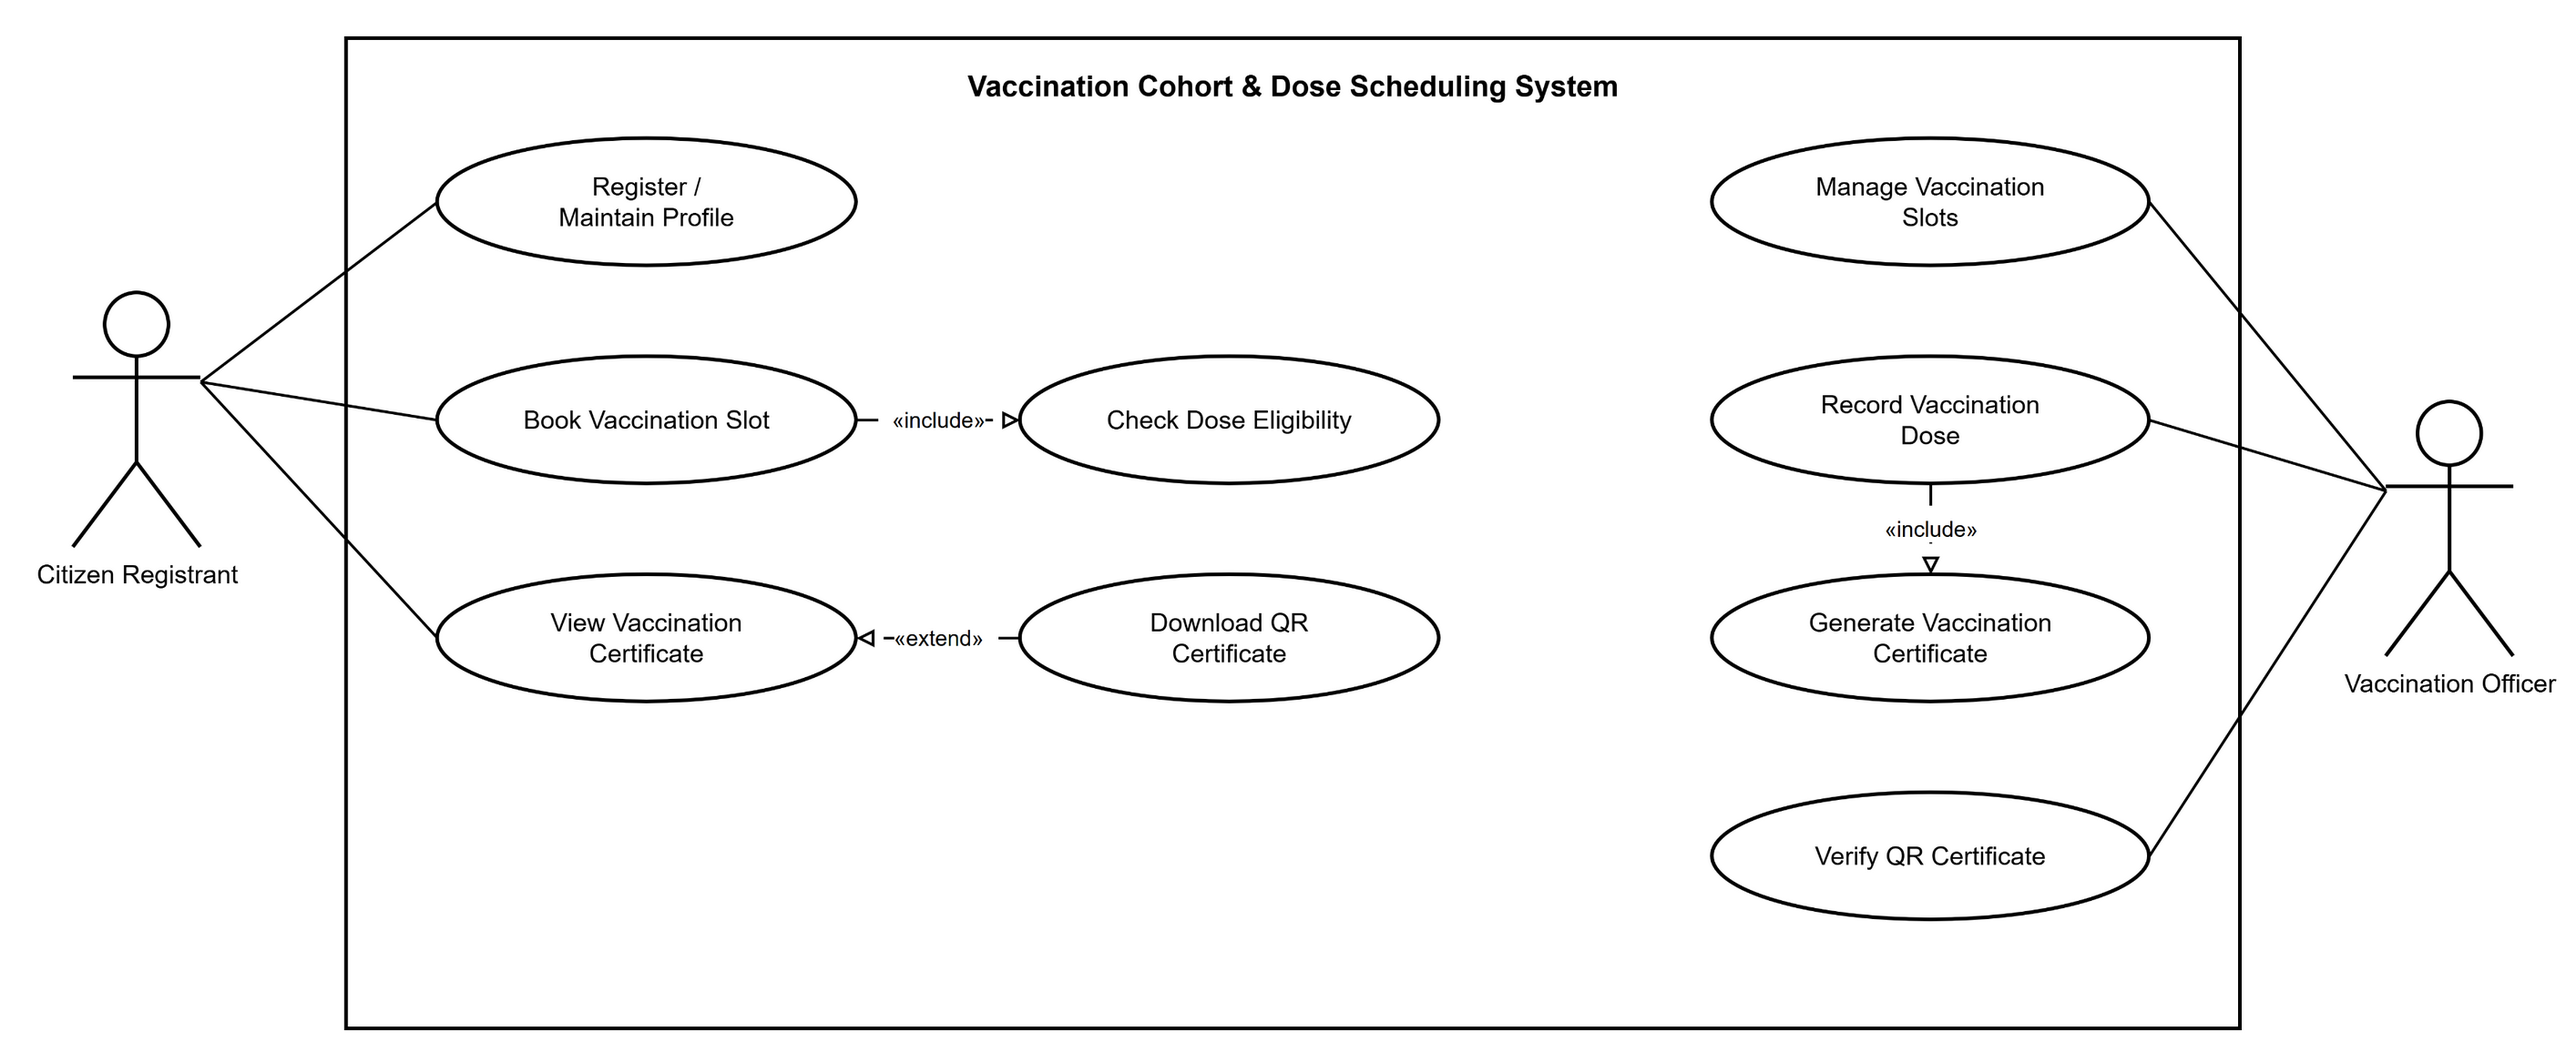
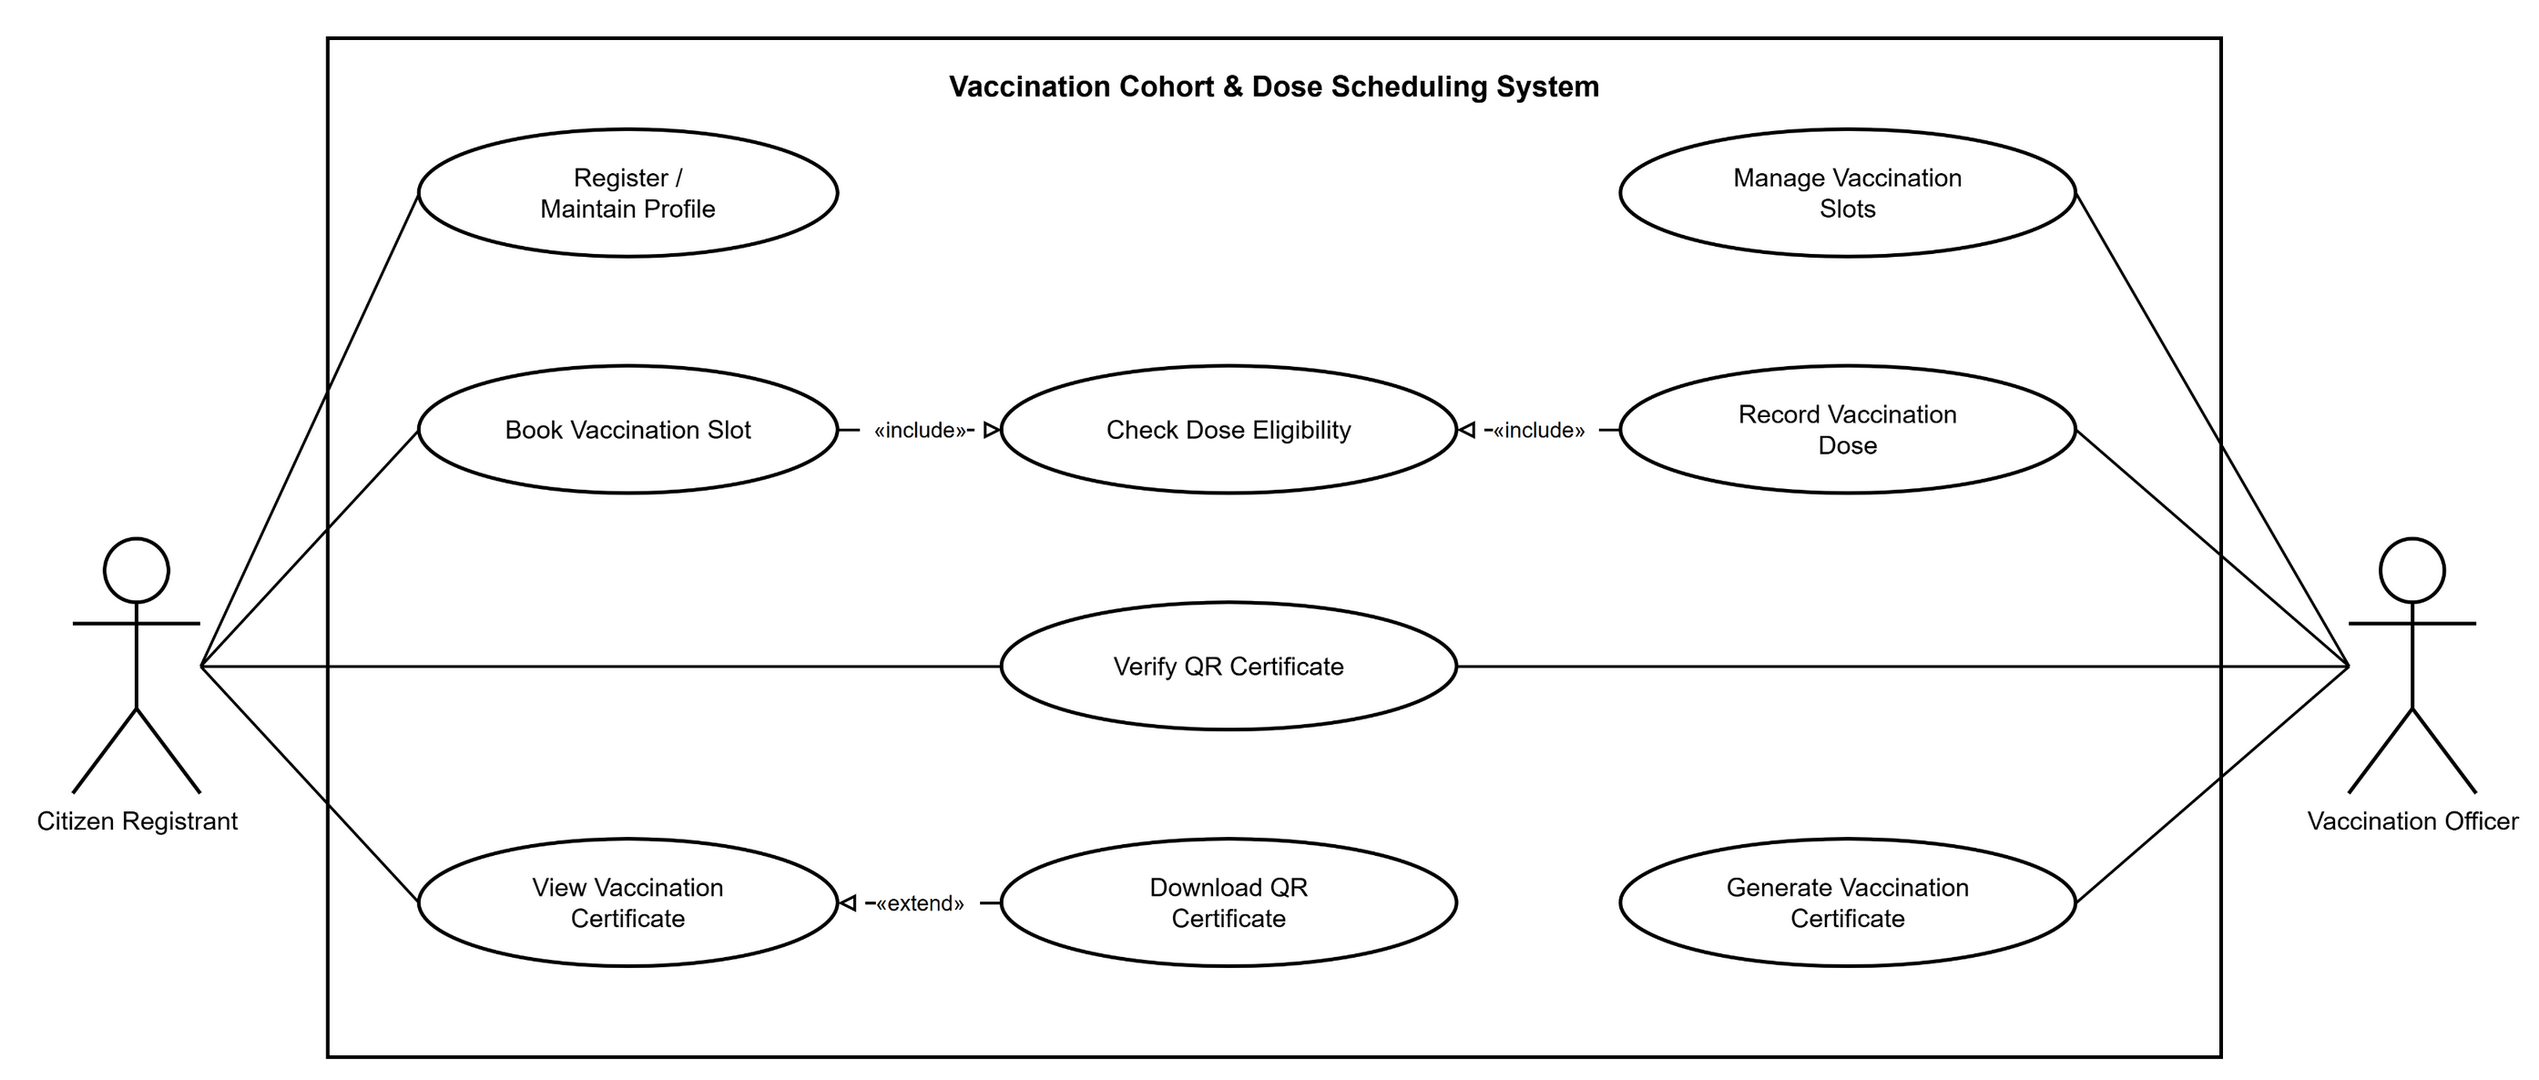
uml: connect the two actors' use cases into one model
The previous diagram split into two disconnected halves: no path
existed between any Citizen Registrant use case and any Vaccination
Officer use case, so it read as two diagrams sharing a boundary.

Join them with the two relationships the domain already implies:

- Check Dose Eligibility is now <<include>>d by both Book Vaccination
  Slot and Record Vaccination Dose. The interval rule must hold when
  an appointment is reserved and again before the dose is
  administered, since an earlier dose may be back-dated or corrected
  in between. Factoring shared behaviour out of two use cases is what
  <<include>> is for.
- Verify QR Certificate is now associated with both actors: a citizen
  verifies their own certificate, an officer verifies one presented
  at a checkpoint.

Generate Vaccination Certificate becomes a plain officer association,
which keeps the officer column free of a crossing edge. Update the
requirements traceability, rationale for FR-003, README and UC-01
notes to match, and re-export the PNG.

diff --git a/requirements/requirements.md b/requirements/requirements.md
@@ -98,8 +98,8 @@ crowding at vaccination sites and lets officers plan vaccine stock per session.
 |---|---|
 | **Type** | Functional — Business Rule |
 | **Priority** | High |
-| **Actor** | Citizen Registrant (enforced by the system) |
-| **Use case** | Check Dose Eligibility — `«include»` of Book Vaccination Slot |
+| **Actors** | Citizen Registrant, Vaccination Officer (enforced by the system for both) |
+| **Use case** | Check Dose Eligibility — `«include»` of Book Vaccination Slot *and* of Record Vaccination Dose |
 
 **Description.** The system shall enforce dose interval rules (e.g. minimum 28 days after Dose 1)
 before unlocking Dose 2 booking for a citizen. The interval shall be configurable per vaccine
@@ -112,8 +112,11 @@ type rather than hard-coded.
 - **Fail:** an early vaccination slot is confirmed.
 
 **Rationale.** A second dose given too early is clinically ineffective and potentially unsafe.
-Because the rule is safety-critical, it is enforced centrally on every booking attempt — modelled
-as a mandatory `«include»` rather than an optional check — so it cannot be bypassed.
+Because the rule is safety-critical, it is enforced centrally rather than left to staff
+discretion, and it is checked at **both** points where an invalid dose could slip through: when
+the citizen reserves an appointment, and again when the officer records the dose as administered.
+Modelling it as a shared mandatory `«include»` from both use cases — rather than an optional
+check on one — is what makes it impossible to bypass from either direction.
 
 ---
 
@@ -250,26 +253,41 @@ diagram is labelled with the requirement it satisfies.
 |---|---|---|---|---|
 | 1 | FR-001 | Register / Maintain Profile | Citizen Registrant | association |
 | 2 | FR-002 | Book Vaccination Slot | Citizen Registrant | association |
-| 3 | FR-003 | Check Dose Eligibility | — | **`«include»`** from Book Vaccination Slot |
+| 3 | FR-003 | Check Dose Eligibility | — | **`«include»`** from Book Vaccination Slot **and** from Record Vaccination Dose |
 | 4 | FR-005 | View Vaccination Certificate | Citizen Registrant | association |
 | 5 | FR-005 | Download QR Certificate | — | **`«extend»`** onto View Vaccination Certificate |
 | 6 | FR-002 | Manage Vaccination Slots | Vaccination Officer | association |
 | 7 | FR-004 | Record Vaccination Dose | Vaccination Officer | association |
-| 8 | FR-005 | Generate Vaccination Certificate | — | **`«include»`** from Record Vaccination Dose |
-| 9 | FR-005, NFR-001 | Verify QR Certificate | Vaccination Officer | association |
+| 8 | FR-005 | Generate Vaccination Certificate | Vaccination Officer | association |
+| 9 | FR-005, NFR-001 | Verify QR Certificate | **both actors** | association to Citizen Registrant **and** Vaccination Officer |
 | — | NFR-002 | *(cross-cutting)* | both | applies to all record-handling use cases |
 
-All nine use cases in the diagram appear in this table, and every one is connected — each has at
-least one association to an actor or one `«include»`/`«extend»` relationship to another use case.
-There are no floating use cases.
+---
+
+### 5.1 How the two actors' use cases are connected
+
+The model is a **single connected graph** — not two independent halves that happen to share a
+system boundary. Starting from either actor, every use case is reachable. Two relationships do
+that work:
+
+**Shared included use case — `Check Dose Eligibility`.**
+It is `«include»`d from the citizen's `Book Vaccination Slot` *and* from the officer's
+`Record Vaccination Dose`. The interval rule must hold at two distinct moments: when an
+appointment is reserved, and again before the vaccine is physically administered — a booking made
+legitimately in advance can still become invalid if the earlier dose is back-dated or corrected.
+Factoring that common behaviour out of two use cases owned by two different actors is precisely
+what `«include»` is for, and it is what links the two halves of the diagram.
+
+**Shared use case — `Verify QR Certificate`.**
+Associated with *both* actors: a Citizen Registrant verifies their own certificate before
+travelling, and a Vaccination Officer verifies a presented certificate at a checkpoint. Same
+system behaviour, two initiating actors, one use case.
 
 **Why `«include»` for FR-003 and `«extend»` for FR-005.**
-`Check Dose Eligibility` is `«include»`d because the interval rule must run on *every* booking
-attempt — it is unconditional, and modelling it as optional would let an unsafe booking through.
-`Generate Vaccination Certificate` is likewise `«include»`d because recording a dose always
-issues or reissues the certificate. `Download QR Certificate` is an `«extend»` because a citizen
-may view a certificate on screen without ever downloading it — that behaviour is conditional on
-the citizen requesting a copy.
+`Check Dose Eligibility` is `«include»`d because the interval rule is unconditional — modelling
+it as optional would let an unsafe booking through. `Download QR Certificate` is an `«extend»`
+because a citizen may view a certificate on screen without ever downloading it, so that behaviour
+is conditional on the citizen requesting a copy.
 
 ---
 

diff --git a/README.md b/README.md
@@ -53,10 +53,20 @@ verifiable QR digital vaccination certificates.
 **Key relationships modelled**
 - `Book Vaccination Slot` **«include»** `Check Dose Eligibility` — the 28-day minimum dose
   interval check is *mandatory* on every booking attempt (traces to **FR-003**).
-- `Record Vaccination Dose` **«include»** `Generate Vaccination Certificate` — recording a dose
-  mandatorily issues the certificate for the completed schedule (traces to **FR-005**).
+- `Record Vaccination Dose` **«include»** `Check Dose Eligibility` — the same check is
+  *mandatory* again before a dose is physically administered (traces to **FR-003**).
 - `Download QR Certificate` **«extend»** `View Vaccination Certificate` — downloading the
   signed QR certificate is *optional* behaviour on top of viewing it (traces to **FR-005**).
+
+**How the two actors' use cases connect**
+
+The diagram is a single connected model, not two separate halves:
+
+- `Check Dose Eligibility` is a **shared included use case** — reached by `«include»` from the
+  citizen's `Book Vaccination Slot` *and* from the officer's `Record Vaccination Dose`. Factoring
+  common behaviour out of two use cases is exactly what `«include»` exists for.
+- `Verify QR Certificate` is a **shared use case** associated with *both* actors — a citizen can
+  check their own certificate and an officer can verify one at a checkpoint.
 
 ---
 

diff --git a/use-case-flow/book-vaccination-slot.md b/use-case-flow/book-vaccination-slot.md
@@ -92,6 +92,13 @@ exactly what the `«include»` relationship expresses in the use-case diagram, a
 prevents an unsafe early dose from ever being booked. Modelling it as an `«extend»` would
 wrongly imply the safety check is optional.
 
+**The same check is shared with the Vaccination Officer.** `Check Dose Eligibility` is also
+`«include»`d by the officer's *Record Vaccination Dose* use case, so the interval rule is
+re-evaluated before the vaccine is physically administered — a booking made legitimately in
+advance can still turn out to be invalid if the earlier dose is later back-dated or corrected.
+That shared `«include»` is what connects the Citizen Registrant's and Vaccination Officer's use
+cases into one model rather than two independent halves.
+
 **Relationship to FR-003.** Alternate flow A1 is the runtime behaviour of FR-003's acceptance
 criterion *"Pass: Dose 2 booking is blocked if the interval since Dose 1 is < 28 days"*, and the
 main success scenario is the behaviour of *"Pass: Dose 2 booking is permitted once 28 days or
